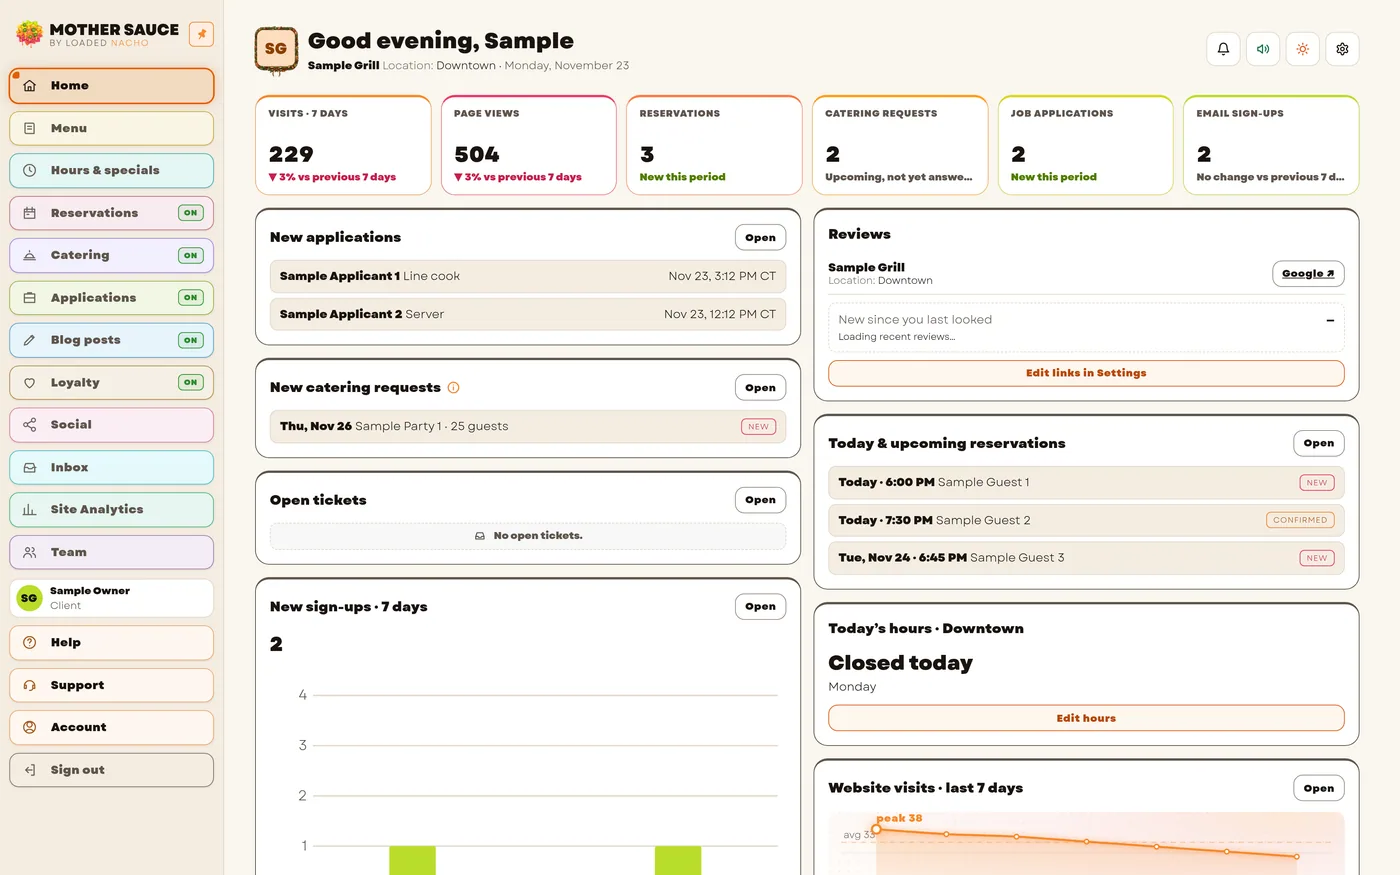
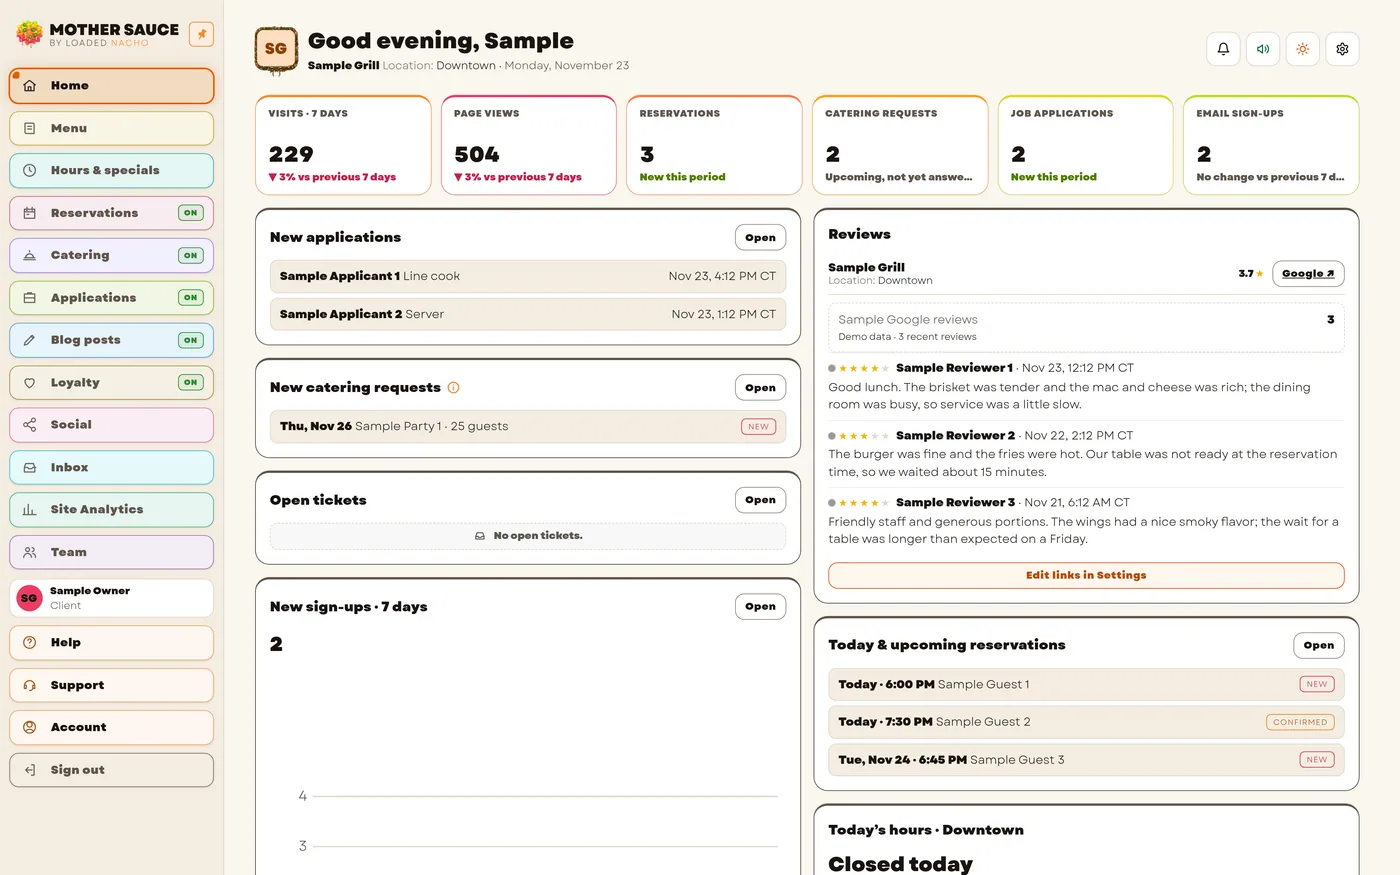
Mother Sauce hero: recapture with the seeded review card (#94)
The demo's Home Reviews card now carries the sample Google listing (3.7 stars,
three 4/3/4 reviews, "Demo data - 3 recent reviews"), so the only skeleton on
the marketing page is gone.

- hero only, from the 1.81.251 demo in the client role, light theme, 2x, same
  1800x1200 window and framing as the rest of the set, exported 1400x875
- one version bump, hero only: ?v=6 on the main page (jpg and webp) and on the
  page's JSON-LD image; the other ten stay at v=5
- card strings in frame: "3.7 *", "Sample Google reviews 3",
  "Demo data - 3 recent reviews", three "Sample Reviewer" rows, and the
  "Edit links in Settings" button sitting at the card's bottom edge

diff --git a/sites/loadednacho/public/mother-sauce.html b/sites/loadednacho/public/mother-sauce.html
@@ -16,7 +16,7 @@
 <meta property="og:image:alt" content="Loaded Nacho – restaurant websites and marketing in Oklahoma">
 <link rel="icon" href="/favicon.ico?v=8" sizes="48x48"><link rel="icon" type="image/png" sizes="32x32" href="/assets/img/favicon-32.png?v=8"><link rel="icon" type="image/png" sizes="16x16" href="/assets/img/favicon-16.png?v=8"><link rel="icon" type="image/png" sizes="192x192" href="/assets/img/favicon-192.png?v=8"><link rel="apple-touch-icon" href="/assets/img/apple-touch-icon.png?v=8"><link rel="preload" href="/assets/fonts/Garet-Heavy.woff2" as="font" type="font/woff2" crossorigin>
 
-<link rel="stylesheet" href="/assets/style.css?v=39"><link rel="stylesheet" href="/assets/theme.css?v=27"><link rel="stylesheet" href="/assets/ms.css?v=19"><script type="application/ld+json">{"@context": "https://schema.org", "@type": "SoftwareApplication", "name": "Mother Sauce", "url": "https://loadednacho.com/mother-sauce", "sameAs": ["https://mothersauce.app"], "applicationCategory": "BusinessApplication", "operatingSystem": "Web", "description": "Mother Sauce is the Loaded Nacho command center for restaurants: one sign-in to manage menus and hours, reservations, catering, hiring, team roles, blog, email alerts, social media, reputation and site analytics. A live demo with sample data is at https://mothersauce.app/demo.", "image": "https://loadednacho.com/assets/img/ms/ms-dashboard-hero.jpg?v=5", "potentialAction": {"@type": "ViewAction", "name": "Try the live demo", "target": "https://mothersauce.app/demo"}, "publisher": {"@type": "Organization", "name": "Loaded Nacho LLC", "url": "https://loadednacho.com/", "logo": {"@type": "ImageObject", "url": "https://loadednacho.com/assets/img/mark.png"}}}</script>
+<link rel="stylesheet" href="/assets/style.css?v=39"><link rel="stylesheet" href="/assets/theme.css?v=27"><link rel="stylesheet" href="/assets/ms.css?v=19"><script type="application/ld+json">{"@context": "https://schema.org", "@type": "SoftwareApplication", "name": "Mother Sauce", "url": "https://loadednacho.com/mother-sauce", "sameAs": ["https://mothersauce.app"], "applicationCategory": "BusinessApplication", "operatingSystem": "Web", "description": "Mother Sauce is the Loaded Nacho command center for restaurants: one sign-in to manage menus and hours, reservations, catering, hiring, team roles, blog, email alerts, social media, reputation and site analytics. A live demo with sample data is at https://mothersauce.app/demo.", "image": "https://loadednacho.com/assets/img/ms/ms-dashboard-hero.jpg?v=6", "potentialAction": {"@type": "ViewAction", "name": "Try the live demo", "target": "https://mothersauce.app/demo"}, "publisher": {"@type": "Organization", "name": "Loaded Nacho LLC", "url": "https://loadednacho.com/", "logo": {"@type": "ImageObject", "url": "https://loadednacho.com/assets/img/mark.png"}}}</script>
 </head><body>
 <div class="grain"></div>
 <header class="nav" id="nav"><a href="/" class="brand"><img src="/assets/img/mark.png" alt="" width="40" height="40"><span>LOADED<b>NACHO</b></span></a>

diff --git a/sites/loadednacho/public/index.html b/sites/loadednacho/public/index.html
@@ -53,7 +53,7 @@
    <p>One command center for your restaurant. Update your menu and hours, see reservations and catering requests, take online orders, run your social media, grow your loyalty club, send newsletters and keep customers engaged, check your numbers, and manage your team, all in one place.</p>
    <ul class="pills ms-pills"><li style="--c:var(--pink)">Menus</li><li style="--c:var(--orange)">Reservations</li><li style="--c:var(--yellow)">Loyalty</li><li style="--c:var(--lime)">Email</li><li style="--c:var(--pink)">Reputation</li><li style="--c:var(--orange)">Social media</li><li style="--c:var(--yellow)">Team management</li><li style="--c:var(--lime)">Online orders</li><li style="--c:var(--pink)">Hours</li><li style="--c:var(--orange)">Catering</li><li style="--c:var(--yellow)">Site analytics</li><li class="more" style="--c:var(--orange)">+ Much more</li></ul>
    <a href="/mother-sauce" class="btn"><svg class="bi" viewBox="0 0 24 24" width="18" height="18" aria-hidden="true" focusable="false" fill="none" stroke="currentColor" stroke-width="2" stroke-linecap="round" stroke-linejoin="round"><path d="M5 12h14"/><path d="M13 6l6 6-6 6"/></svg>See Mother Sauce</a></div>
-  <div class="ms-frame reveal"><div class="bar"><i></i><i></i><i></i><span>mothersauce.app</span></div><picture><source type="image/webp" srcset="/assets/img/ms/ms-dashboard-hero.webp?v=5"><img src="/assets/img/ms/ms-dashboard-hero.jpg?v=5" alt="Mother Sauce Home dashboard with sample data: five KPI cards, a 7-day visits chart and today’s hours." width="1400" height="875" loading="lazy" decoding="async"></picture></div>
+  <div class="ms-frame reveal"><div class="bar"><i></i><i></i><i></i><span>mothersauce.app</span></div><picture><source type="image/webp" srcset="/assets/img/ms/ms-dashboard-hero.webp?v=6"><img src="/assets/img/ms/ms-dashboard-hero.jpg?v=6" alt="Mother Sauce Home dashboard with sample data: five KPI cards, a 7-day visits chart and today’s hours." width="1400" height="875" loading="lazy" decoding="async"></picture></div>
  </div>
 </section>
 
